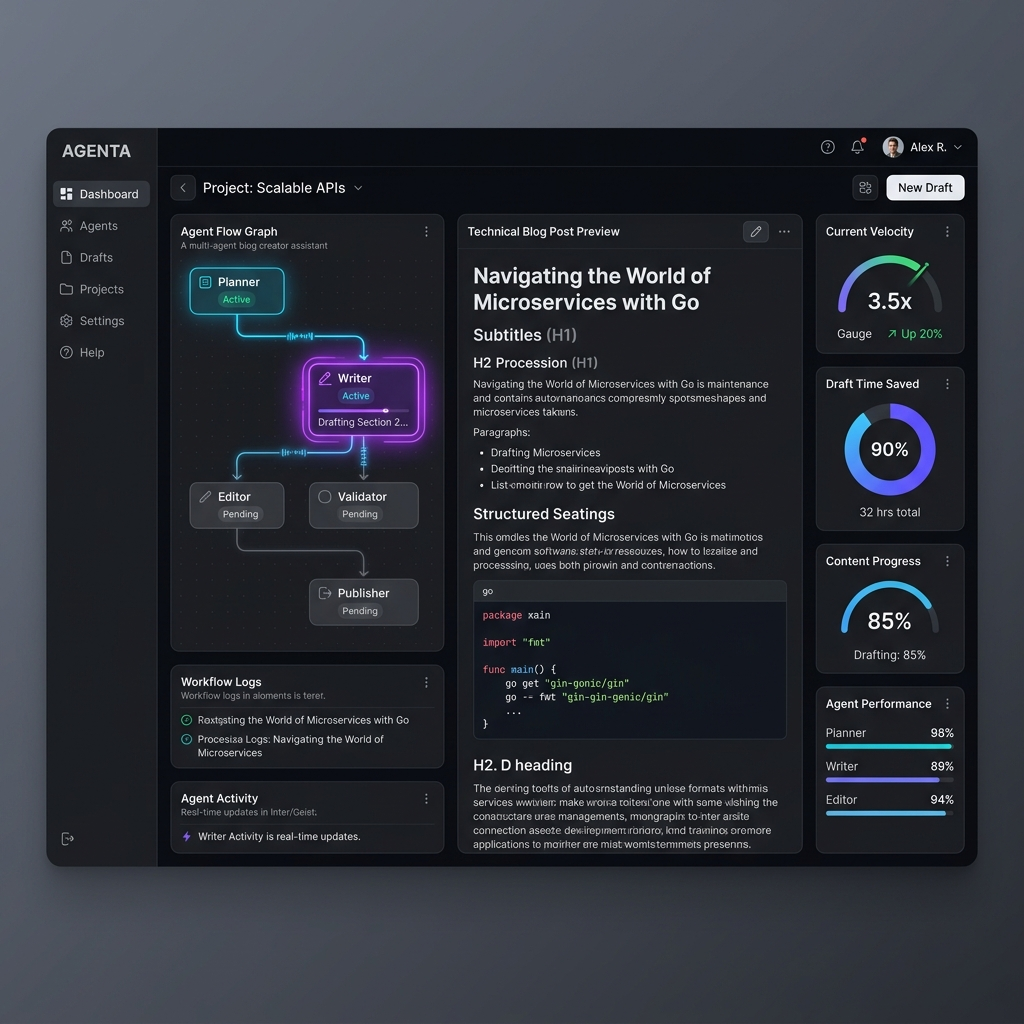
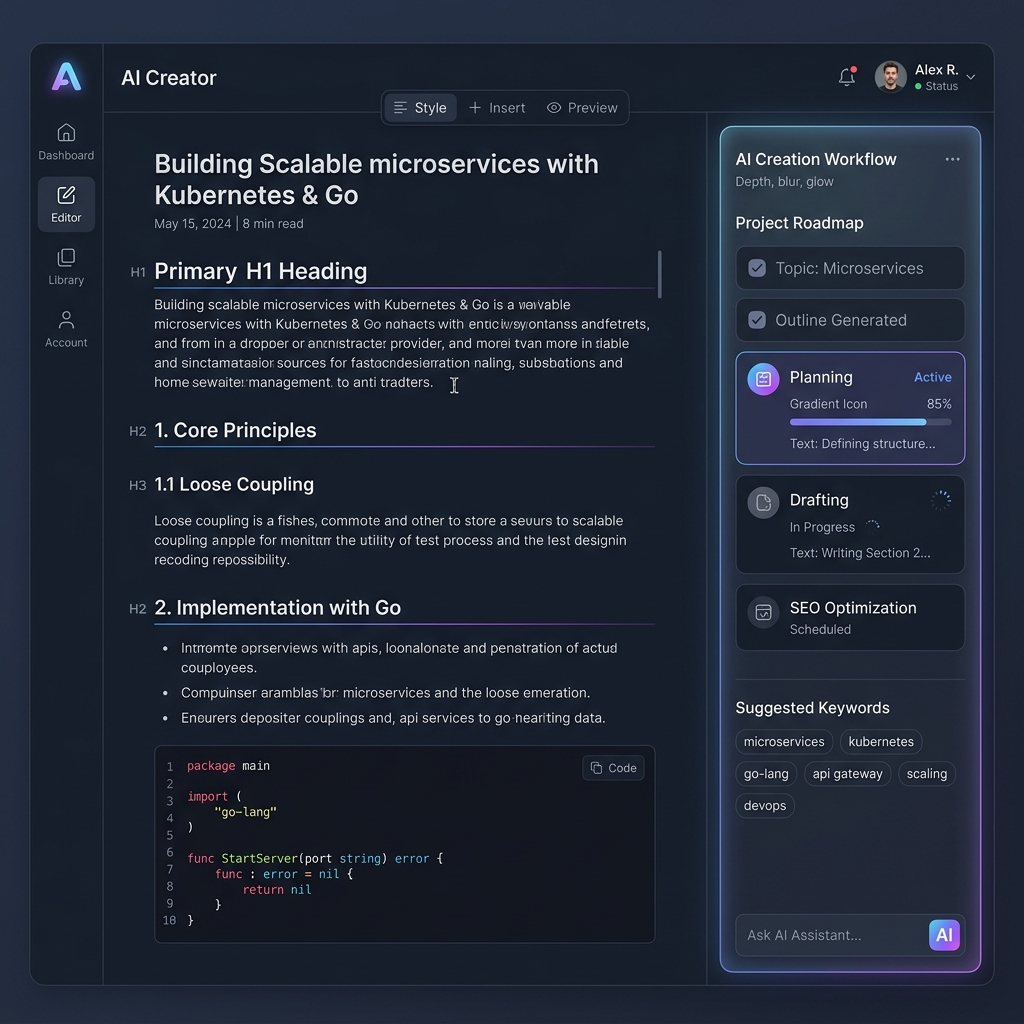
design: replace phone-frame with browser-frame and update Blogger AI mockup

diff --git a/style.css b/style.css
@@ -507,6 +507,43 @@ section {
     border-radius: 26px;
 }
 
+/* Browser Frame (Desktop Mockup) */
+.browser-frame {
+    width: 100%;
+    max-width: 440px;
+    height: 290px;
+    background: #151515;
+    border-radius: 12px;
+    padding-top: 24px;
+    box-shadow: 0 30px 80px rgba(0, 0, 0, 0.25),
+        0 0 0 1px rgba(255, 255, 255, 0.08) inset;
+    position: relative;
+    overflow: hidden;
+    flex-shrink: 0;
+}
+
+.browser-frame::before {
+    content: '';
+    position: absolute;
+    top: 9px;
+    left: 12px;
+    width: 6px;
+    height: 6px;
+    background: #ff5f56;
+    border-radius: 50%;
+    box-shadow: 10px 0 0 #ffbd2e, 20px 0 0 #27c93f;
+    z-index: 10;
+}
+
+.browser-frame img {
+    width: 100%;
+    height: 100%;
+    object-fit: cover;
+    object-position: top;
+    background: #000;
+    border-top: 1px solid rgba(255, 255, 255, 0.08);
+}
+
 /* Slide Content */
 .proto-slide-content {
     display: flex;
@@ -1056,6 +1093,13 @@ footer {
     .phone-frame {
         width: 240px;
         height: 480px;
+        margin: 0 auto;
+    }
+
+    .browser-frame {
+        width: 100%;
+        max-width: 340px;
+        height: 220px;
         margin: 0 auto;
     }
 

diff --git a/index.html b/index.html
@@ -282,7 +282,7 @@
                     <!-- Slide 5: Blogger AI -->
                     <div class="proto-slide" id="blogger-project">
                         <div class="proto-slide-image">
-                            <div class="phone-frame">
+                            <div class="browser-frame">
                                 <img src="img_blogger.png" alt="Blogger Agent Prototype">
                             </div>
                         </div>
